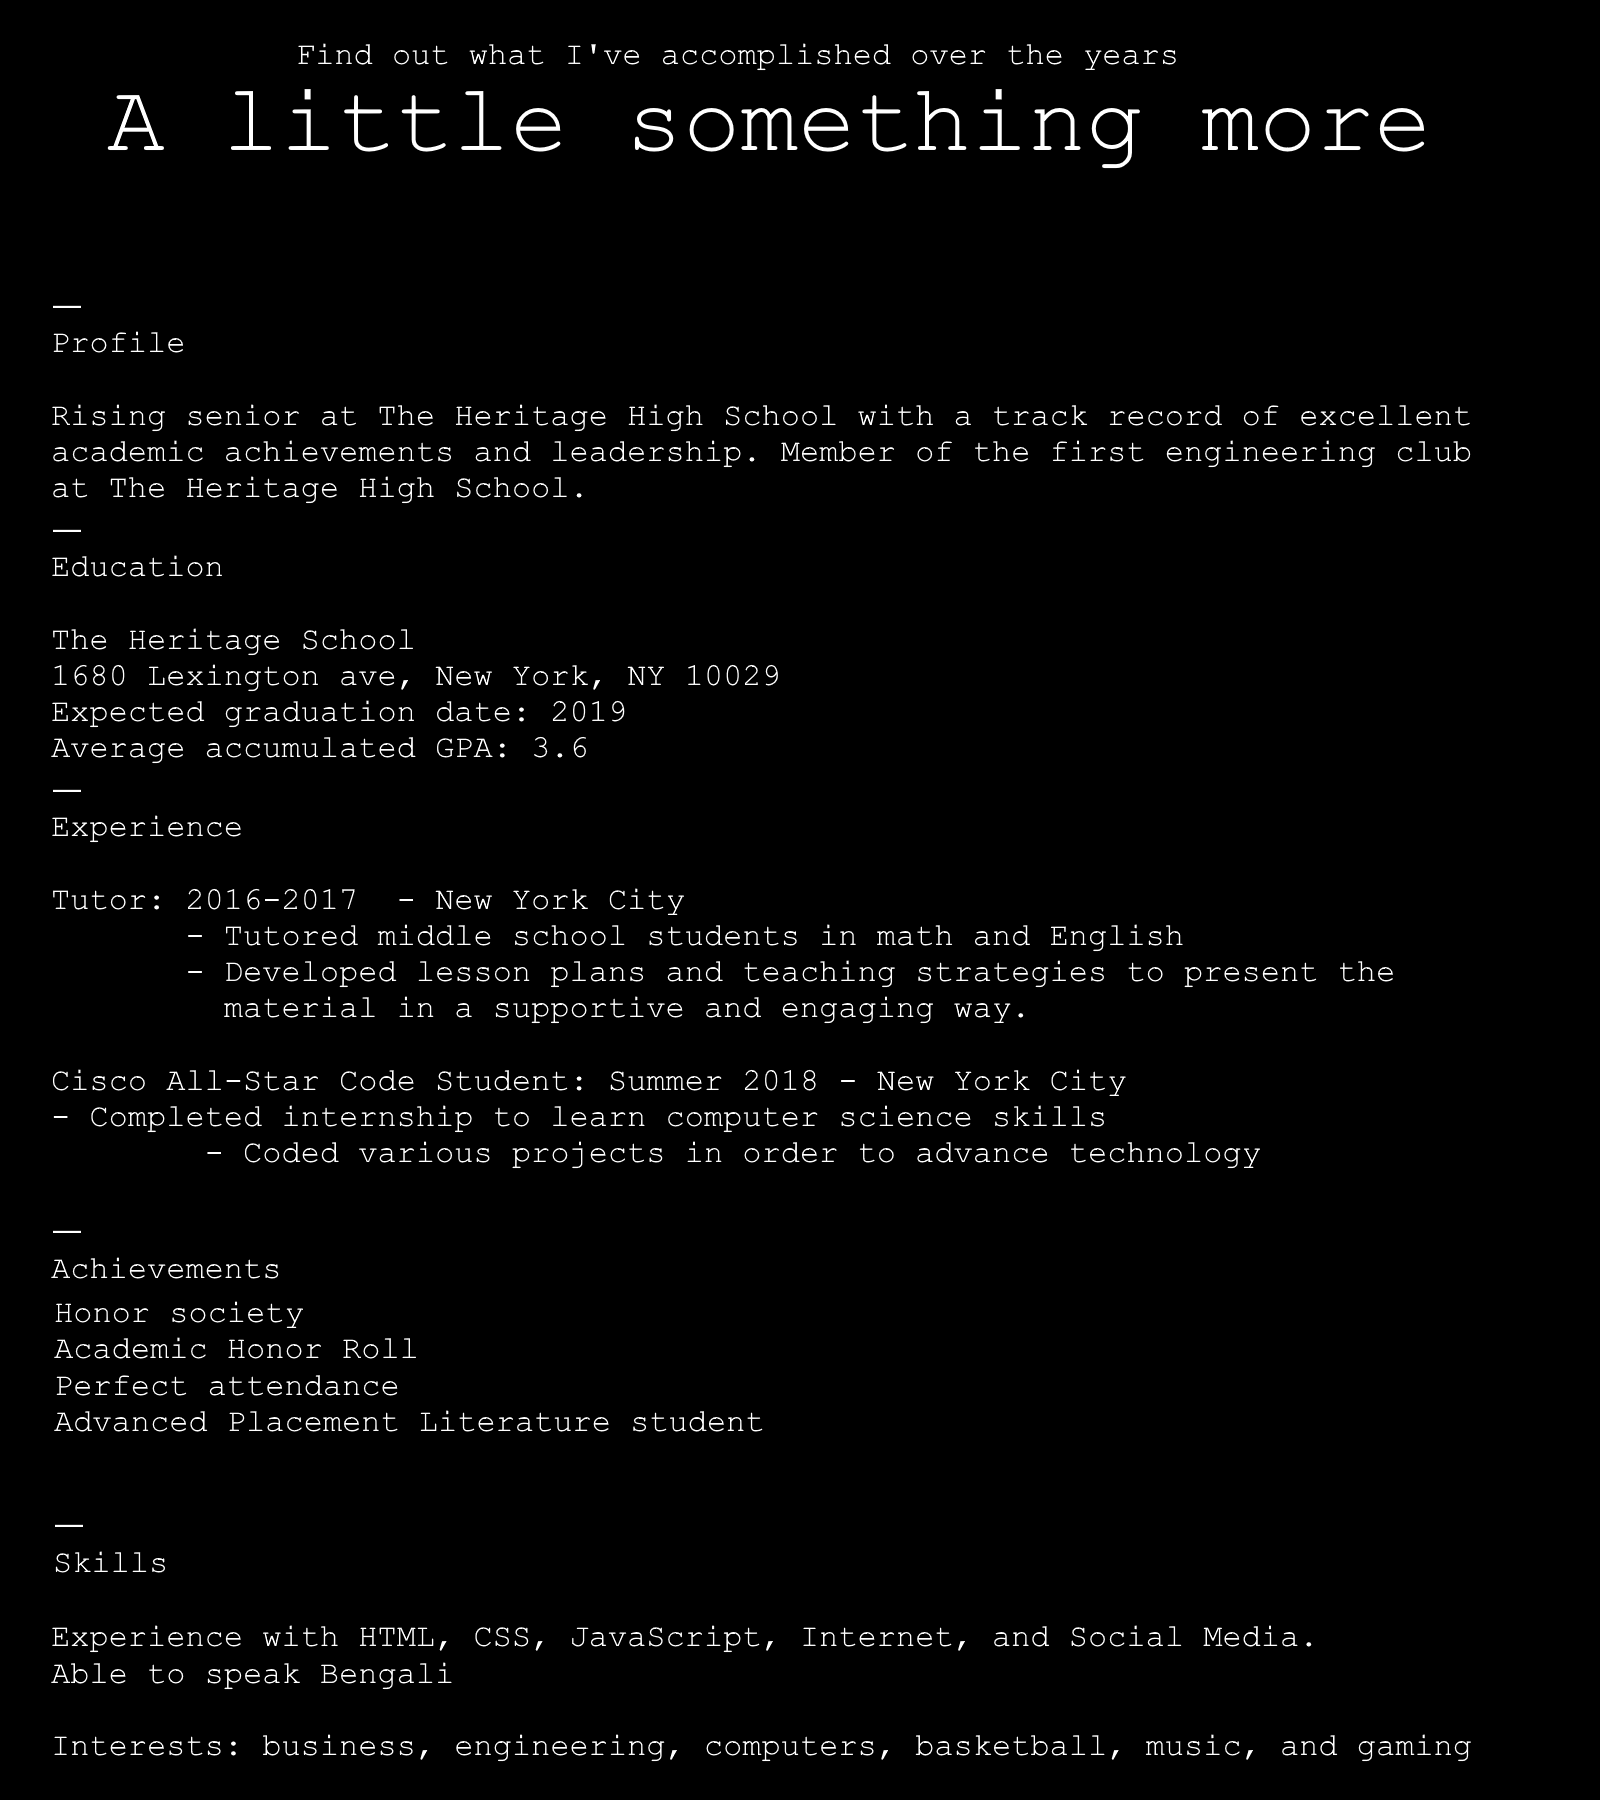
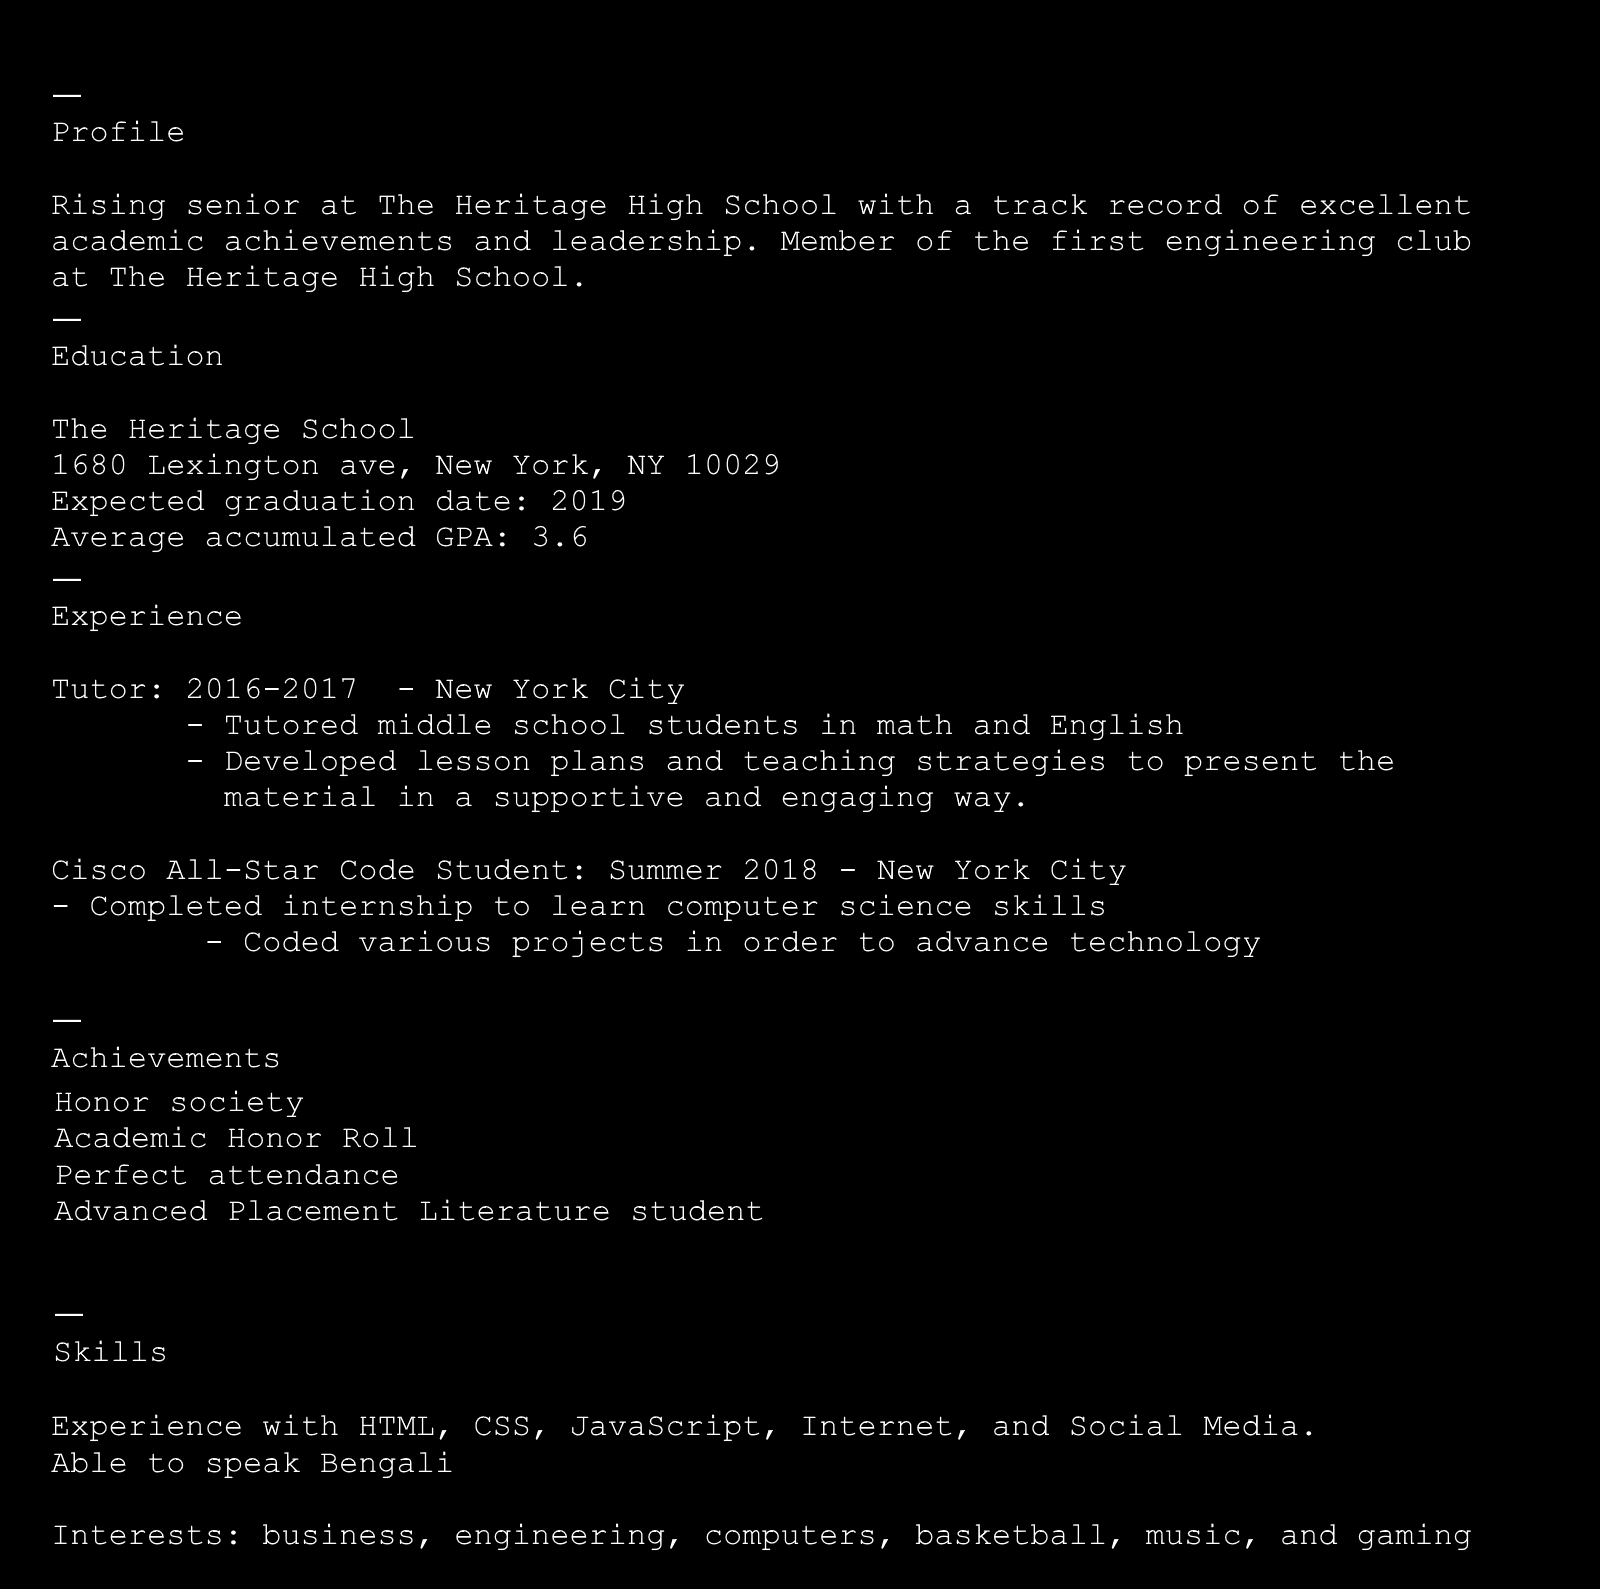
up9

diff --git a/assets/css/style.css b/assets/css/style.css
@@ -981,3 +981,23 @@ Tobias section
     padding: 10px;
     box-shadow: 4px 0px 12px black inset;
   }
+  .hero-section {
+    background: url("https://img.getbg.net/upload/full/8/302162_gonkong_-noch_-doroga_1680x1050_(www.GetBg.net).jpg") 50% no-repeat;
+    background-size: cover;
+    height: 60vh;
+    text-align: center;
+    display: -webkit-flex;
+    display: -ms-flexbox;
+    display: flex;
+    -webkit-align-items: center;
+        -ms-flex-align: center;
+            align-items: center;
+    -webkit-justify-content: center;
+        -ms-flex-pack: center;
+            justify-content: center;
+  }
+  
+  .hero-section .hero-section-text {
+    color: #fefefe;
+    text-shadow: 1px 1px 2px #0a0a0a;
+  }

diff --git a/resume.html b/resume.html
@@ -58,6 +58,12 @@
          <div class="backhome">
                 <a href="index.html">Back to homepage.</a>
          </div>
+         <div class="hero-section">
+            <div class="hero-section-text">
+              <h5>Find out what I've accomplished over the years</h5>
+              <h1>A Little Something More</h1>
+            </div>
+          </div>
          <div class="resume">
              <img src="assets/images/res.png" alt="">
          </div>
